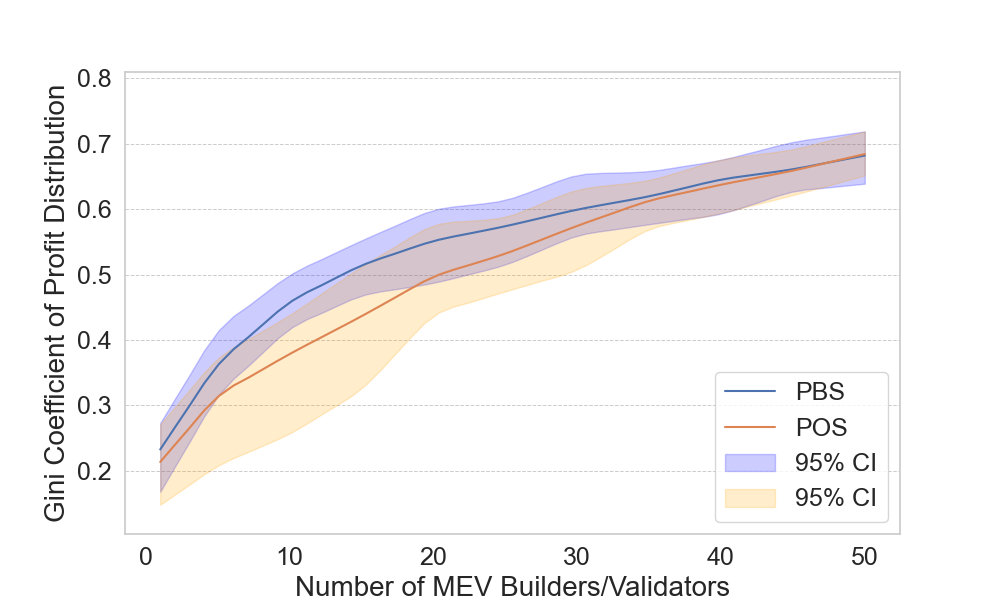
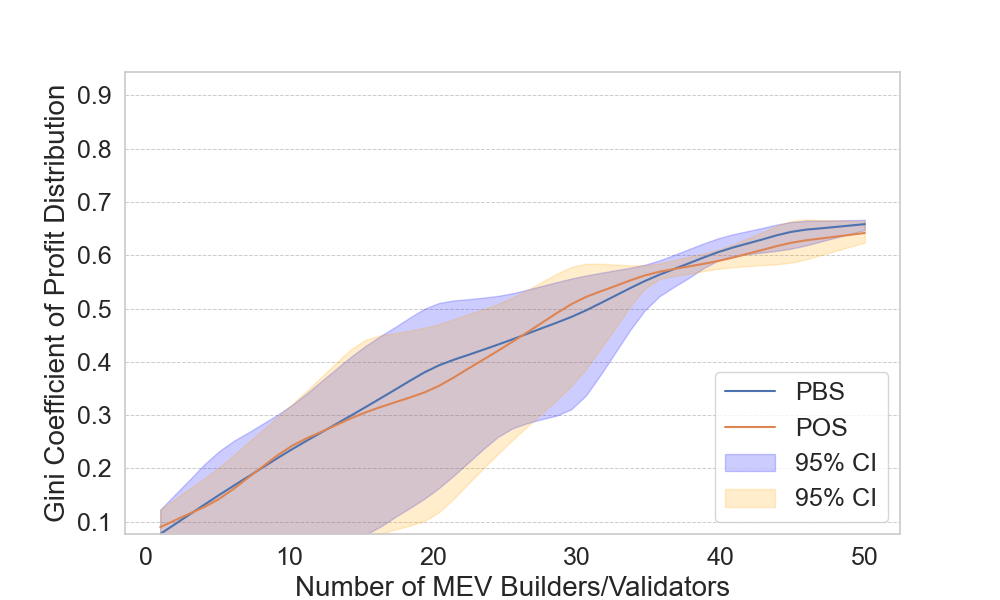
correct??

diff --git a/plots/new/vary_user_profit_gini.py b/plots/new/vary_user_profit_gini.py
@@ -24,7 +24,7 @@ def load_profits(data_dir, mev_counts):
     for mev_count in mev_counts:
         for system in ['pbs', 'pos']:
             run_profits = []
-            for run_id in range(1, 51):
+            for run_id in range(1, 5):
                 file_path = os.path.join(data_dir, f'run{run_id}', f'mev{mev_count}', system, f'transaction_data_{system}.csv')
                 if os.path.exists(file_path):
                     df = pd.read_csv(file_path)
